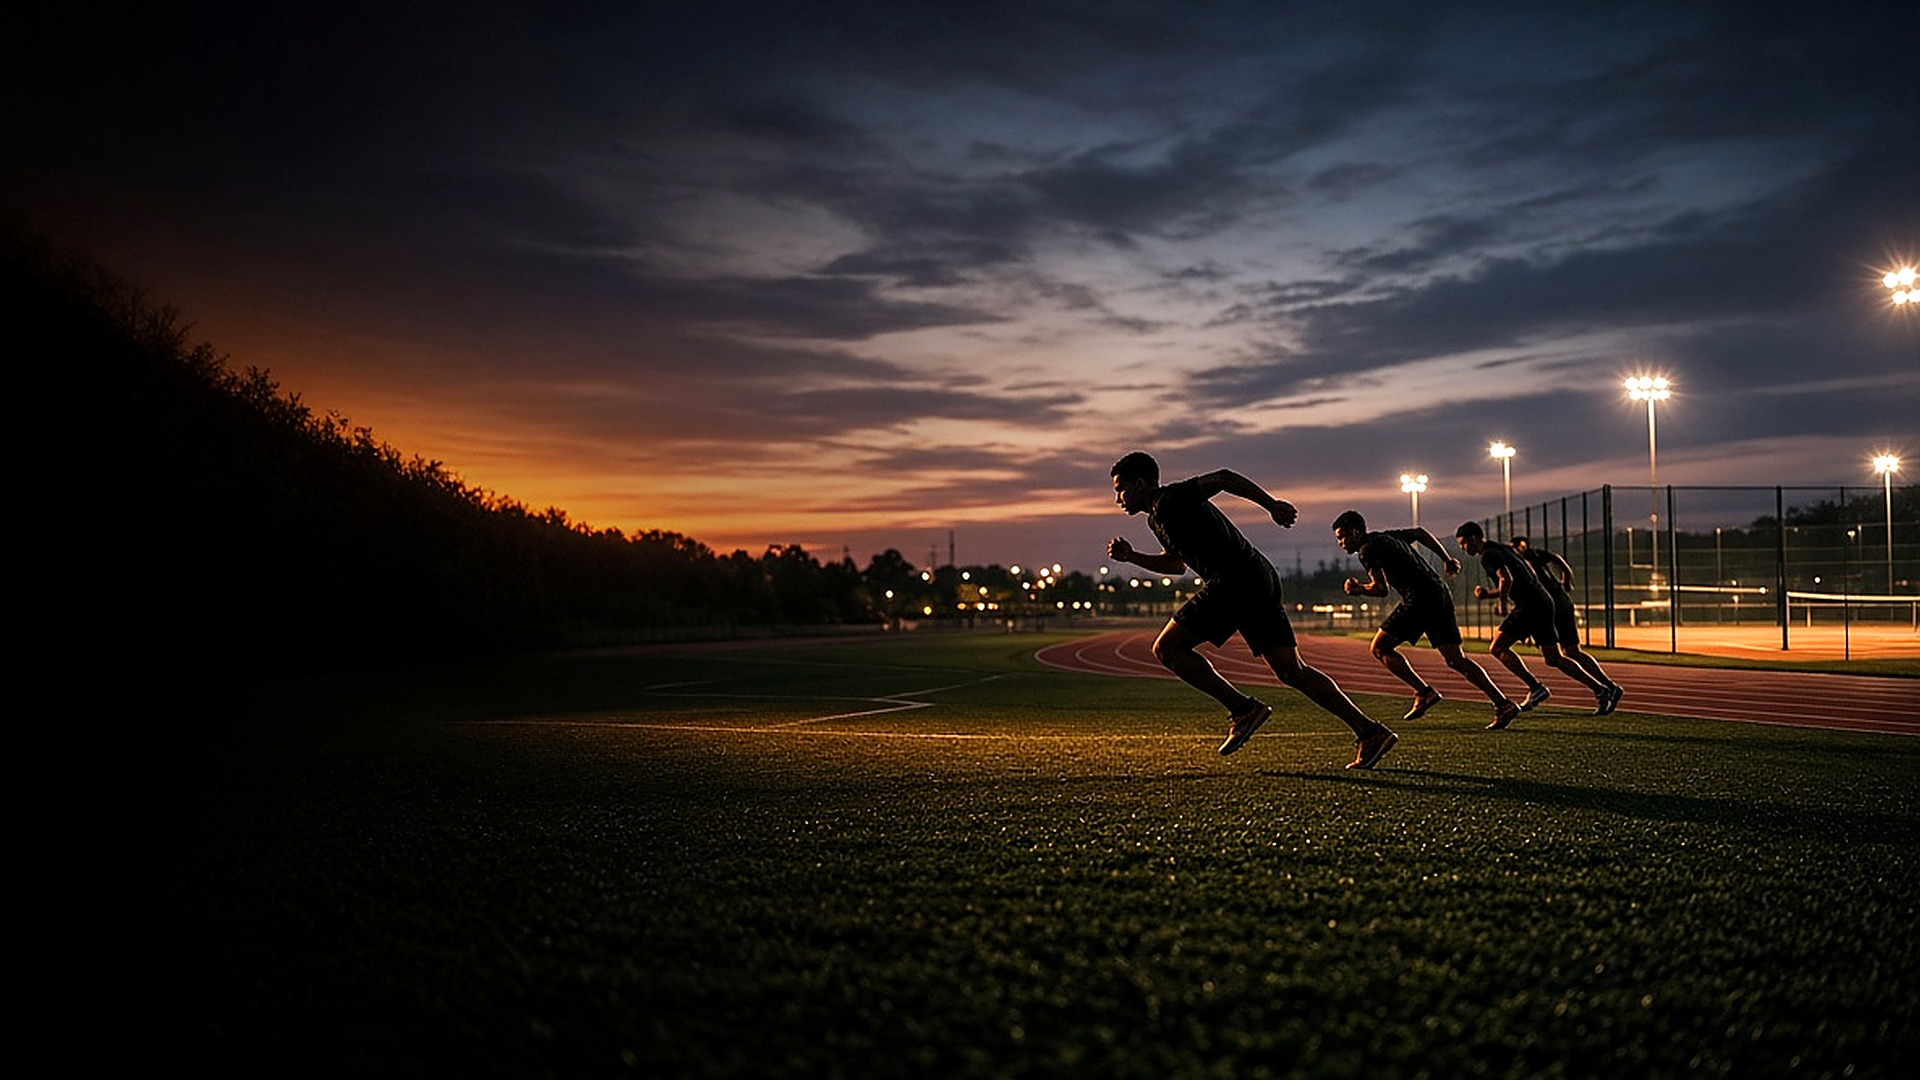
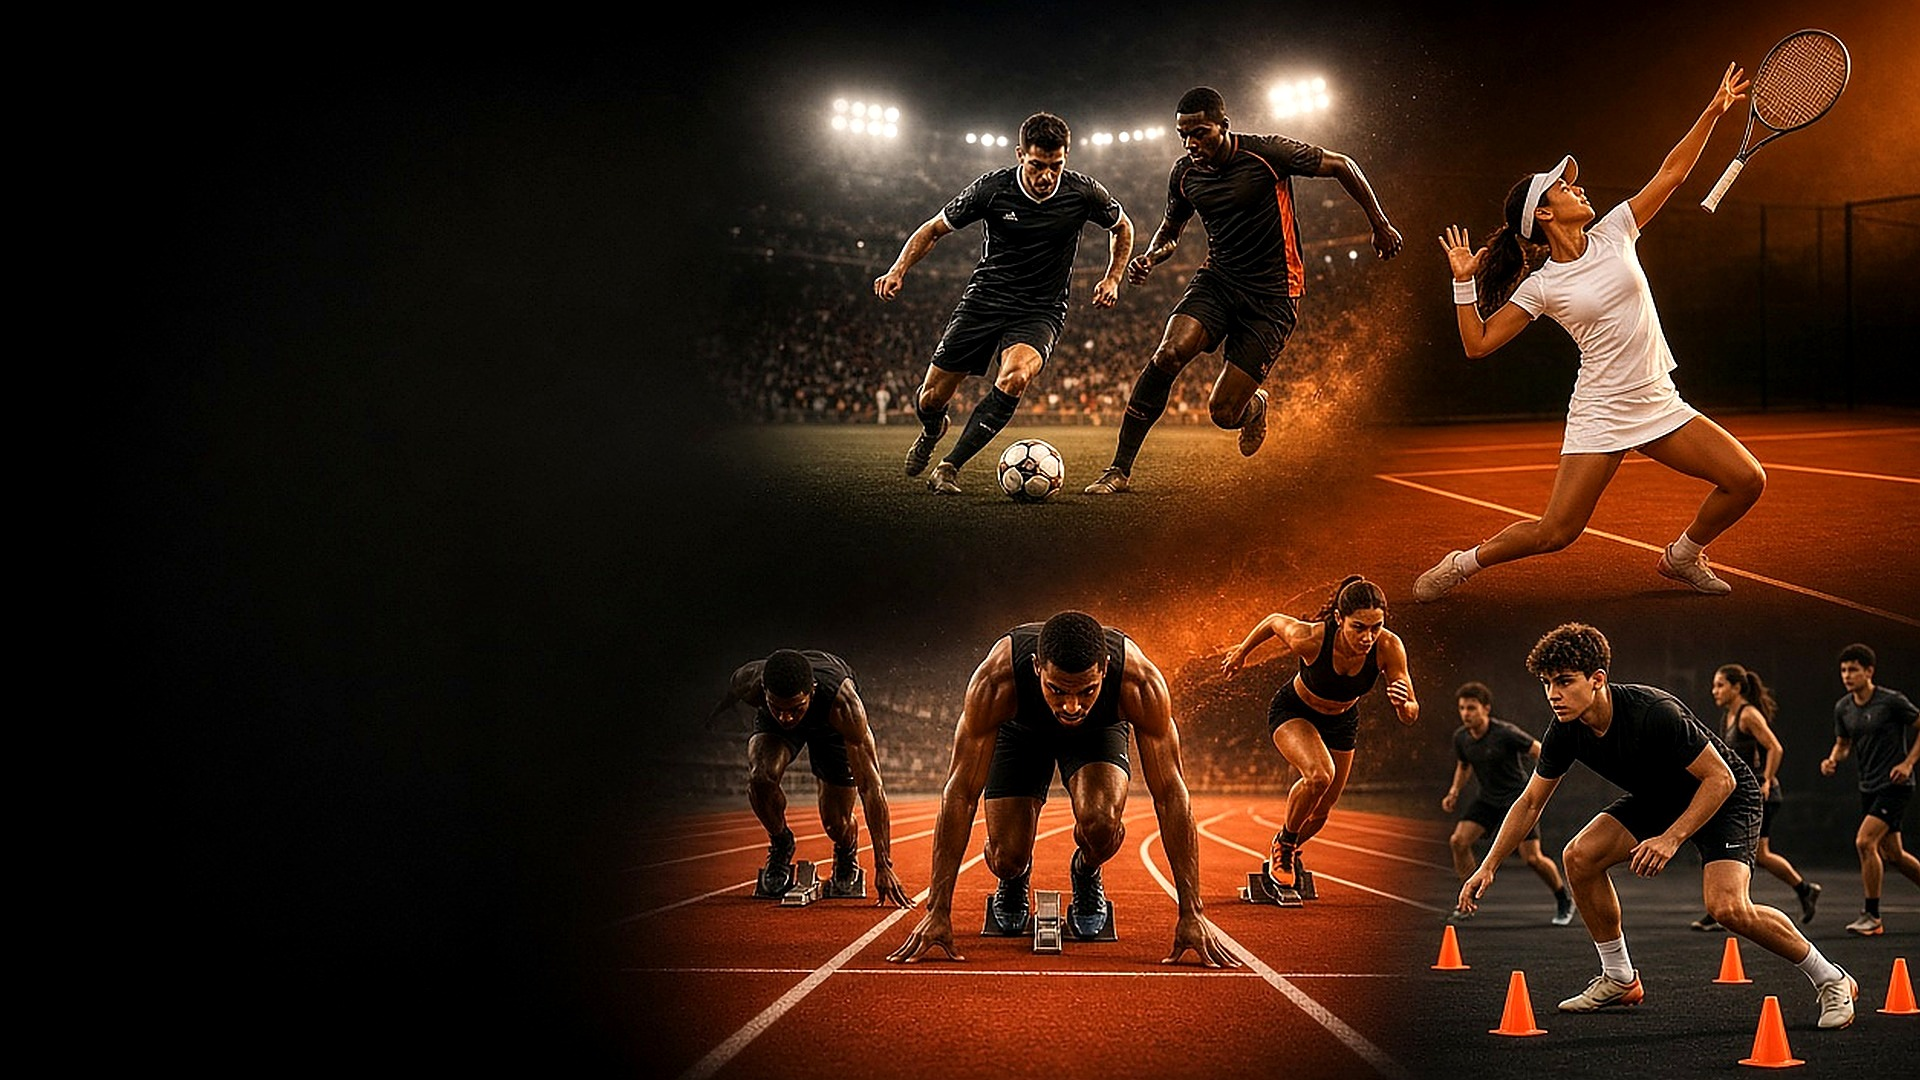
Use multi-sports collage as homepage hero
Ship a full-bleed football, tennis, athletics and training collage behind on-image AISE copy, and keep alternate hero options in the agent store for easy switching.

diff --git a/src/pages/Home.tsx b/src/pages/Home.tsx
@@ -8,7 +8,7 @@ export function Home() {
         <div className="hero__media">
           <img
             src={media.hero}
-            alt="Athletes training at dusk under stadium lights across a multi-sport complex"
+            alt="Multi-sport collage of football, tennis, athletics and training under stadium lights"
             width={1920}
             height={1080}
             fetchPriority="high"
@@ -21,8 +21,8 @@ export function Home() {
             Sport in <em>Motion.</em>
           </h1>
           <p className="hero__support">
-            Building leagues, pathways and programmes that put real sport
-            energy in motion.
+            Leagues, academies, pathways and programmes across sport — built
+            to move people.
           </p>
           <div className="cta-row">
             <Link to="/contact" className="button">

diff --git a/src/styles/global.css b/src/styles/global.css
@@ -353,7 +353,7 @@ em {
   height: 100%;
   max-width: none;
   object-fit: cover;
-  object-position: 62% center;
+  object-position: 55% center;
   display: block;
   opacity: 1;
   filter: none;
